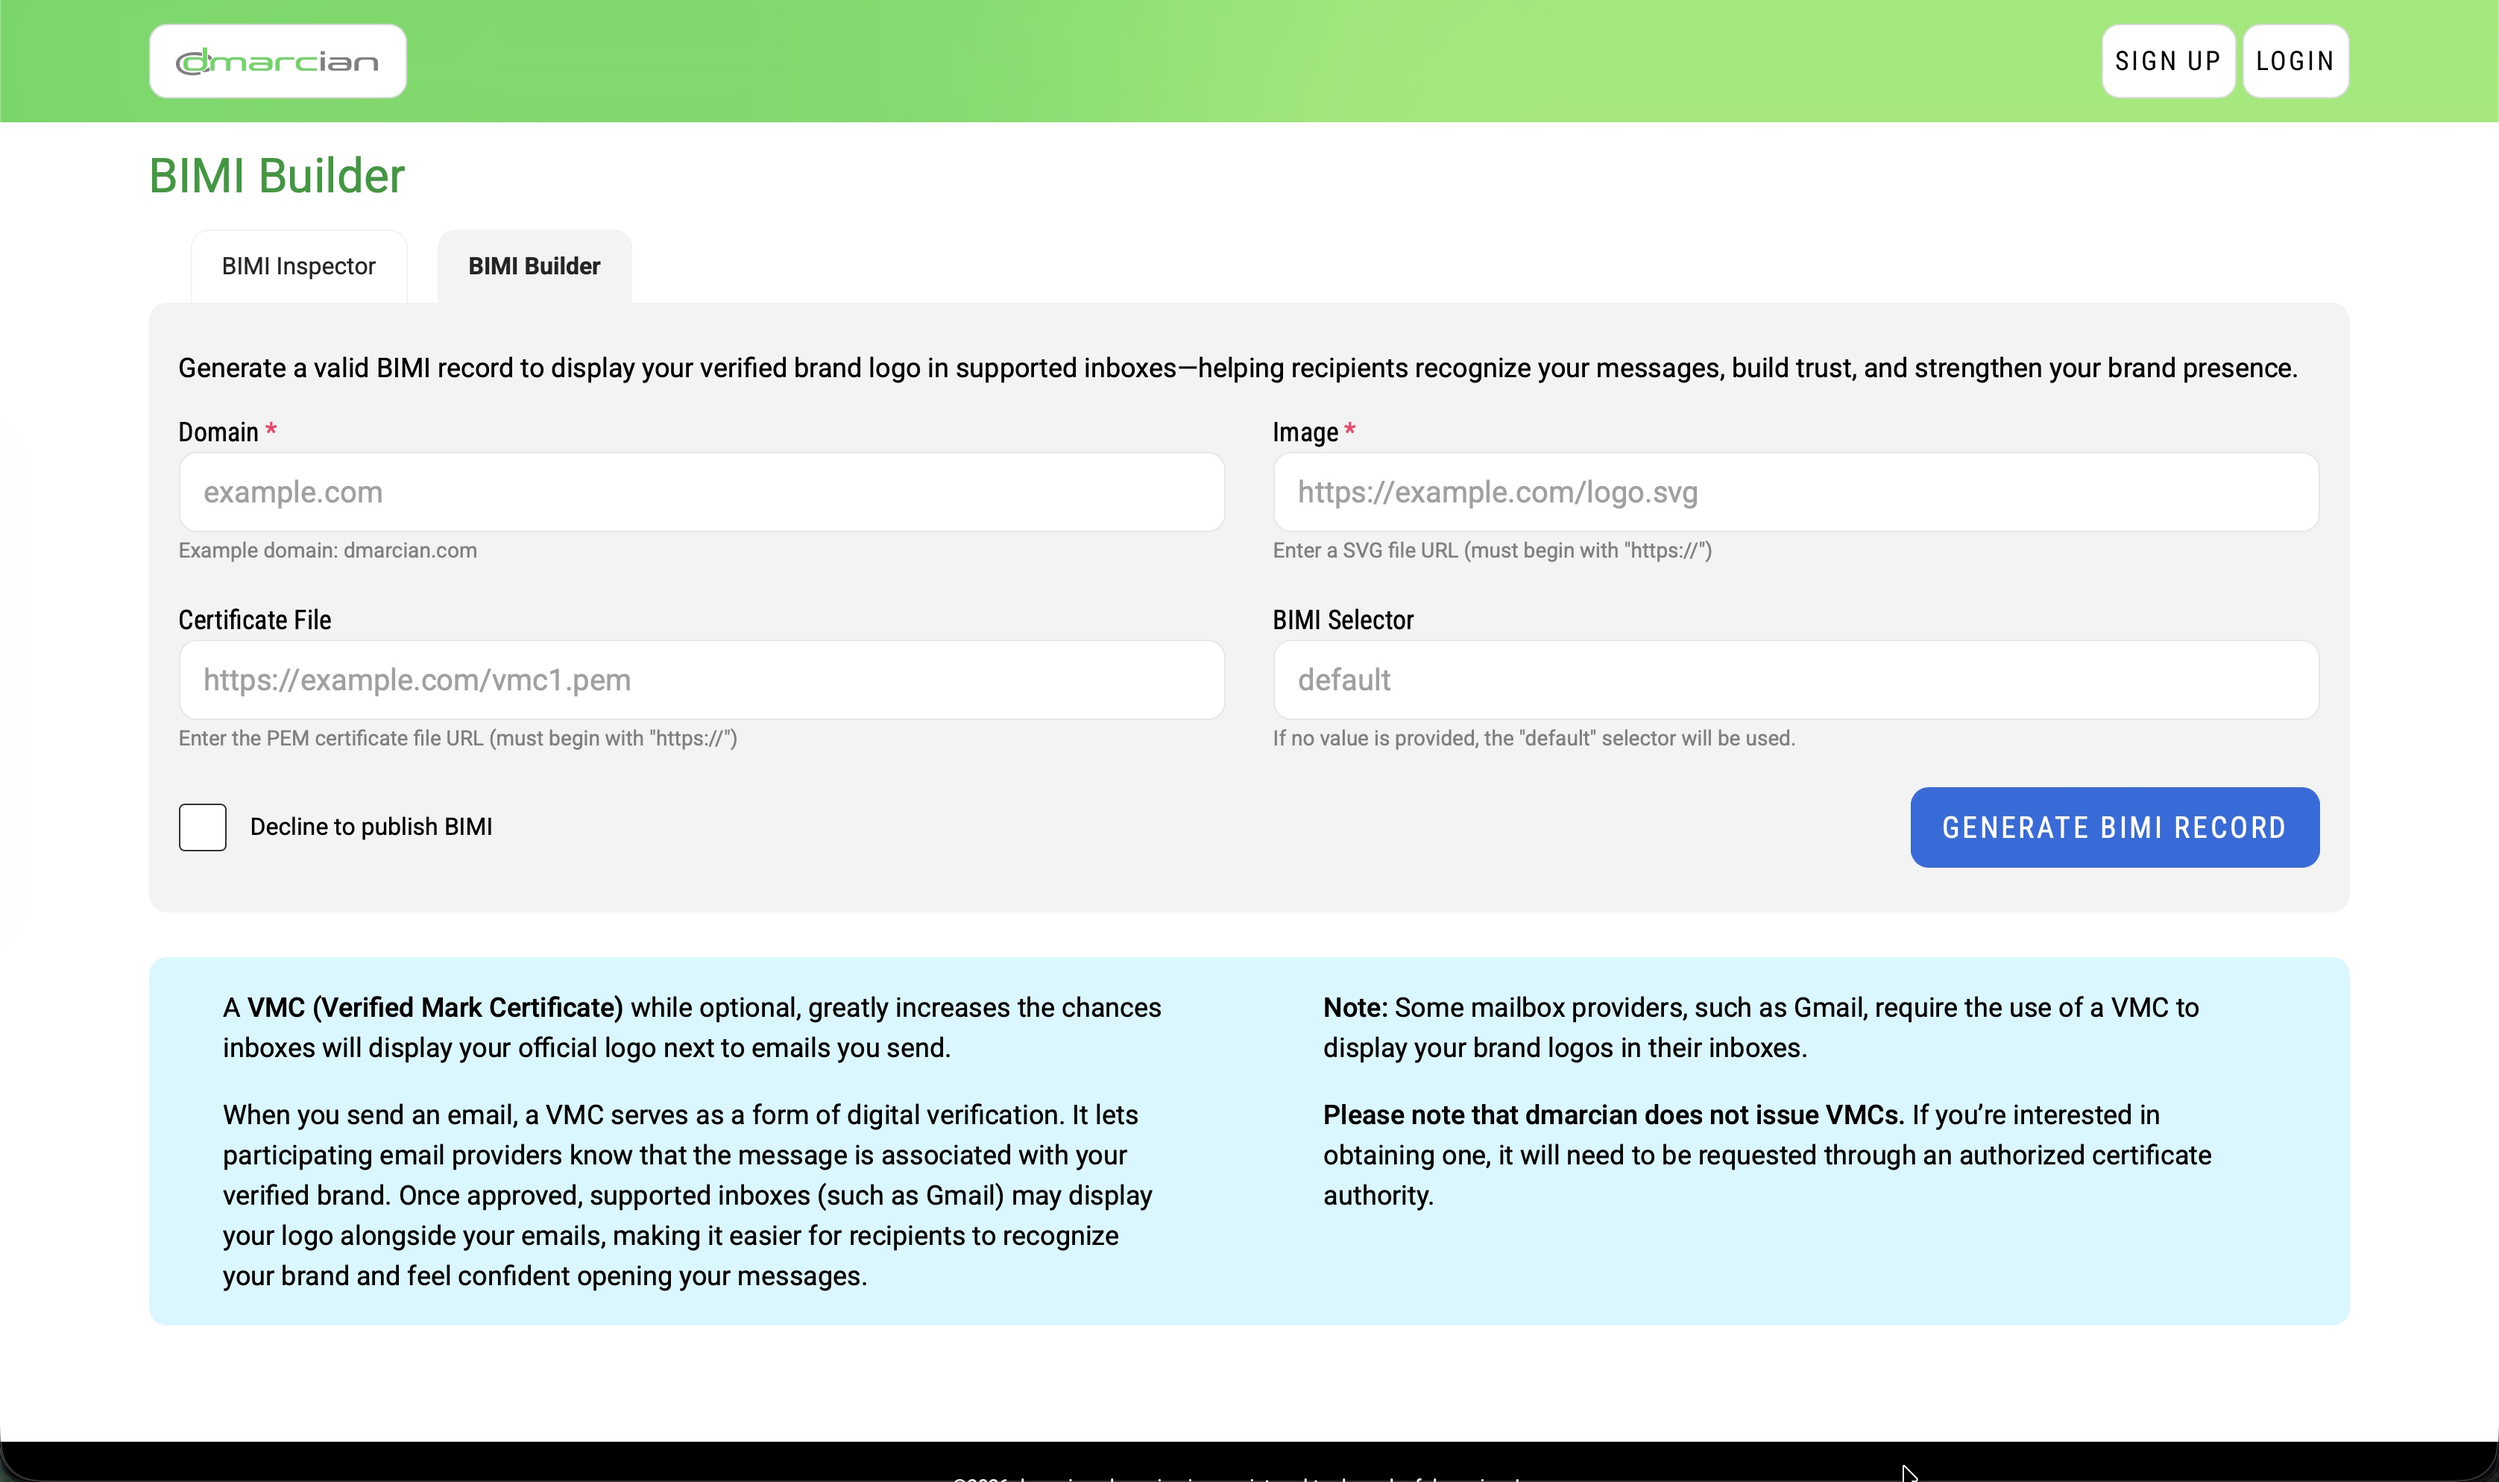
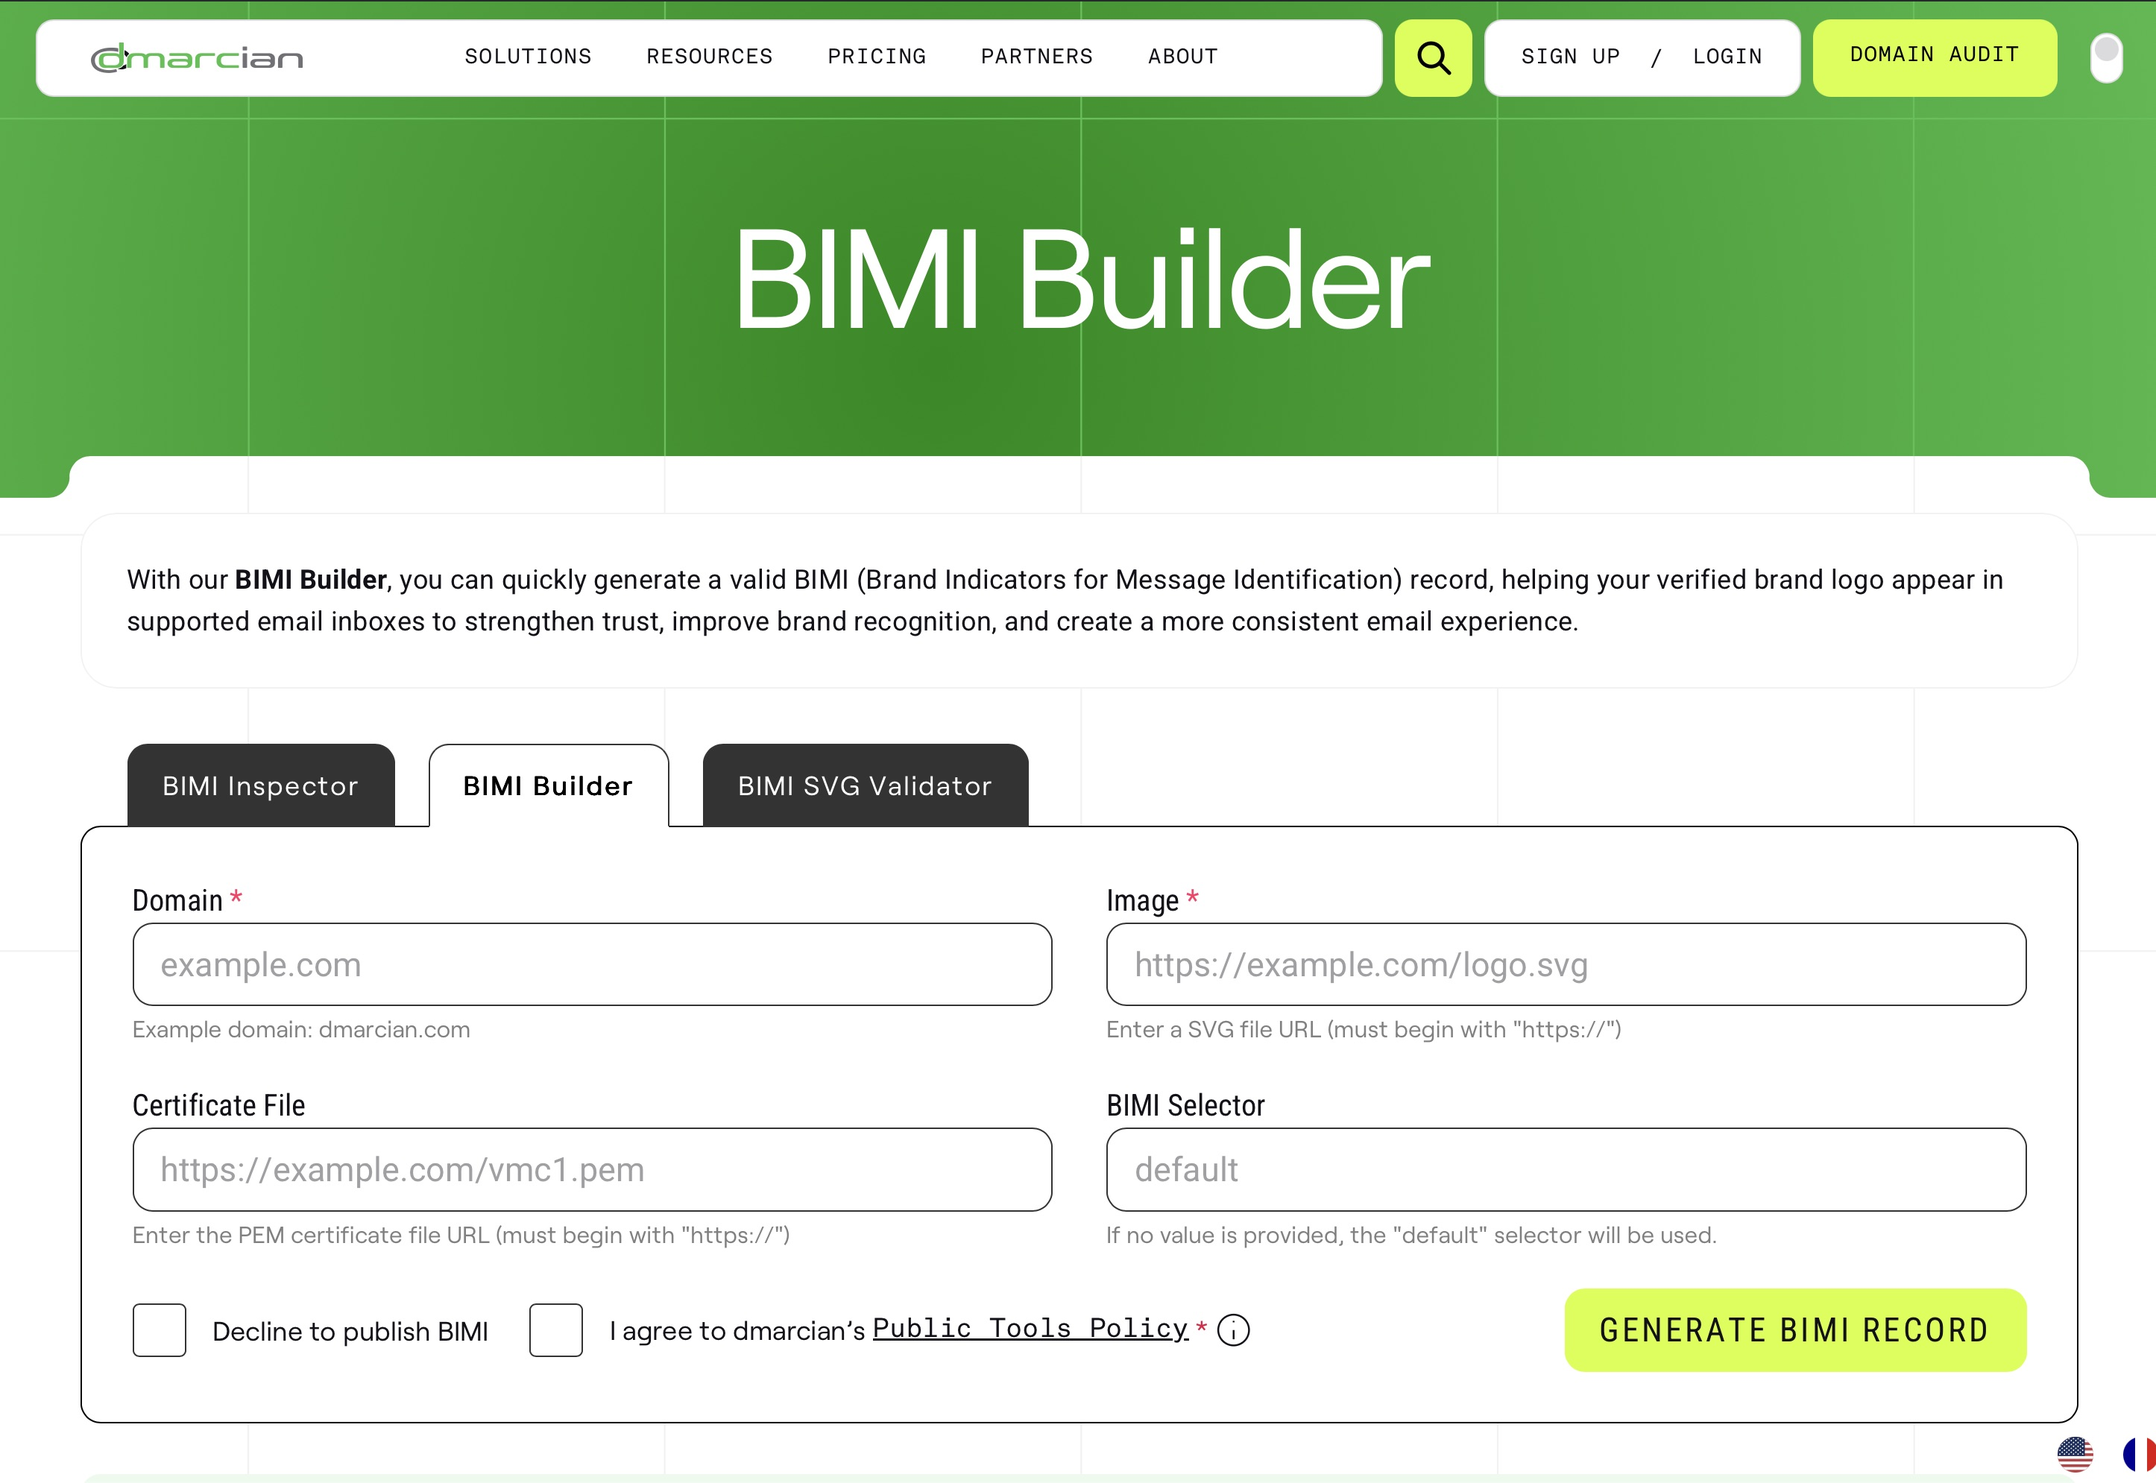
Update web projects

diff --git a/src/data/projects.ts b/src/data/projects.ts
@@ -47,23 +47,31 @@ export const projects: WebProject[] = withIndex([
 		url: 'https://dmarc.io/'
 	},
 	{
-		description: 'TypeScript, SVG, Python, SCSS Modules, React, Django, Postgres, Vite, Sentry, Highcharts, ',
+		description: 'TypeScript, SVG, Python, SCSS Modules, React, Django, Postgres, Vite, Sentry, Highcharts',
 		image: '/images/web-apps/dmarcian-BIMI-inspector.jpeg',
 		skip: false,
 		text: 'Built in collaboration with the dmarcian team',
 		title: 'dmarcian BIMI Inspector',
-		url: 'https://us.dmarcian.com/bimi-inspector/'
+		url: 'https://dmarcian.com/bimi-lookup/'
 	},
 	{
-		description: 'TypeScript, SVG, Python, SCSS Modules, React, Django, Postgres, Vite, Sentry, Highcharts, ',
+		description: 'TypeScript, SVG, Python, SCSS Modules, React, Django, Postgres, Vite, Sentry, Highcharts',
 		image: '/images/web-apps/dmarcian-BIMI-builder.jpeg',
 		skip: false,
 		text: 'Built in collaboration with the dmarcian team',
 		title: 'dmarcian BIMI Builder',
-		url: 'https://us.dmarcian.com/bimi-inspector/?tab=2'
+		url: 'https://dmarcian.com/bimi-lookup/builder/'
 	},
 	{
-		description: 'TypeScript, SVG, Python, SCSS Modules, React, Django, Postgres, Vite, Sentry, Highcharts, ',
+		description: 'TypeScript, SVG, Python, SCSS Modules, React, Django, Postgres, Vite, Sentry, Highcharts',
+		image: '/images/web-apps/dmarcian-BIMI-SVG-Validator.jpeg',
+		skip: false,
+		text: 'Built in collaboration with the dmarcian team',
+		title: 'dmarcian BIMI SVG Validator',
+		url: 'https://dmarcian.com/bimi-lookup/svg-validator/'
+	},
+	{
+		description: 'TypeScript, SVG, Python, SCSS Modules, React, Django, Postgres, Vite, Sentry, Highcharts',
 		image: '/images/web-apps/dmarcian-DMARC-Validator.jpg',
 		skip: false,
 		text: 'Built in collaboration with the dmarcian team',
@@ -71,7 +79,7 @@ export const projects: WebProject[] = withIndex([
 		url: 'https://us.dmarcian.com/dmarc-validator/'
 	},
 	{
-		description: 'TypeScript, SVG, Python, SCSS Modules, React, Django, Postgres, Vite, Sentry, Highcharts, ',
+		description: 'TypeScript, SVG, Python, SCSS Modules, React, Django, Postgres, Vite, Sentry, Highcharts',
 		image: '/images/web-apps/dmarcian-DMARC-Wizard.jpg',
 		skip: false,
 		text: 'Built in collaboration with the dmarcian team',
@@ -79,7 +87,7 @@ export const projects: WebProject[] = withIndex([
 		url: 'https://us.dmarcian.com/dmarc-wizard/'
 	},
 	{
-		description: 'TypeScript, SVG, Python, SCSS Modules, React, Django, Postgres, Vite, Sentry, Highcharts, ',
+		description: 'TypeScript, SVG, Python, SCSS Modules, React, Django, Postgres, Vite, Sentry, Highcharts',
 		image: '/images/web-apps/dmarcian-DMARC-XML-to-Human-Converter.jpg',
 		skip: false,
 		text: 'Built in collaboration with the dmarcian team',
@@ -87,7 +95,7 @@ export const projects: WebProject[] = withIndex([
 		url: 'https://us.dmarcian.com/dmarc-xml/'
 	},
 	{
-		description: 'TypeScript, SVG, Python, SCSS Modules, React, Django, Postgres, Vite, Sentry, Highcharts, ',
+		description: 'TypeScript, SVG, Python, SCSS Modules, React, Django, Postgres, Vite, Sentry, Highcharts',
 		image: '/images/web-apps/dmarcian-TLS-Inspector.jpg',
 		skip: false,
 		text: 'Built in collaboration with the dmarcian team',
@@ -95,7 +103,7 @@ export const projects: WebProject[] = withIndex([
 		url: 'https://us.dmarcian.com/tls-inspector/'
 	},
 	{
-		description: 'TypeScript, SVG, Python, SCSS Modules, React, Django, Postgres, Vite, Sentry, Highcharts, ',
+		description: 'TypeScript, SVG, Python, SCSS Modules, React, Django, Postgres, Vite, Sentry, Highcharts',
 		image: '/images/web-apps/dmarcian.jpg',
 		skip: false,
 		text: 'Built in collaboration with the dmarcian team',
@@ -103,7 +111,7 @@ export const projects: WebProject[] = withIndex([
 		url: 'https://us.dmarcian.com/accounts/register/'
 	},
 	{
-		description: 'TypeScript, SVG, Python, SCSS Modules, React, Django, Postgres, Vite, Sentry, Highcharts, ',
+		description: 'TypeScript, SVG, Python, SCSS Modules, React, Django, Postgres, Vite, Sentry, Highcharts',
 		image: '/images/web-apps/dmarcian-Login.jpg',
 		skip: false,
 		text: 'Built in collaboration with the dmarcian team',
@@ -532,8 +540,8 @@ export const projects: WebProject[] = withIndex([
 	},
 	{
 		description: 'HTML5, CSS3, Javascript, jQuery, AngularJS',
-		image: '/images/web-apps/Issta.jpg',
-		skip: false,
+		image: '/images/web-apps/Issta.jpeg',
+		skip: true,
 		title: 'Issta',
 		url: 'https://www.issta.co.il/'
 	},
